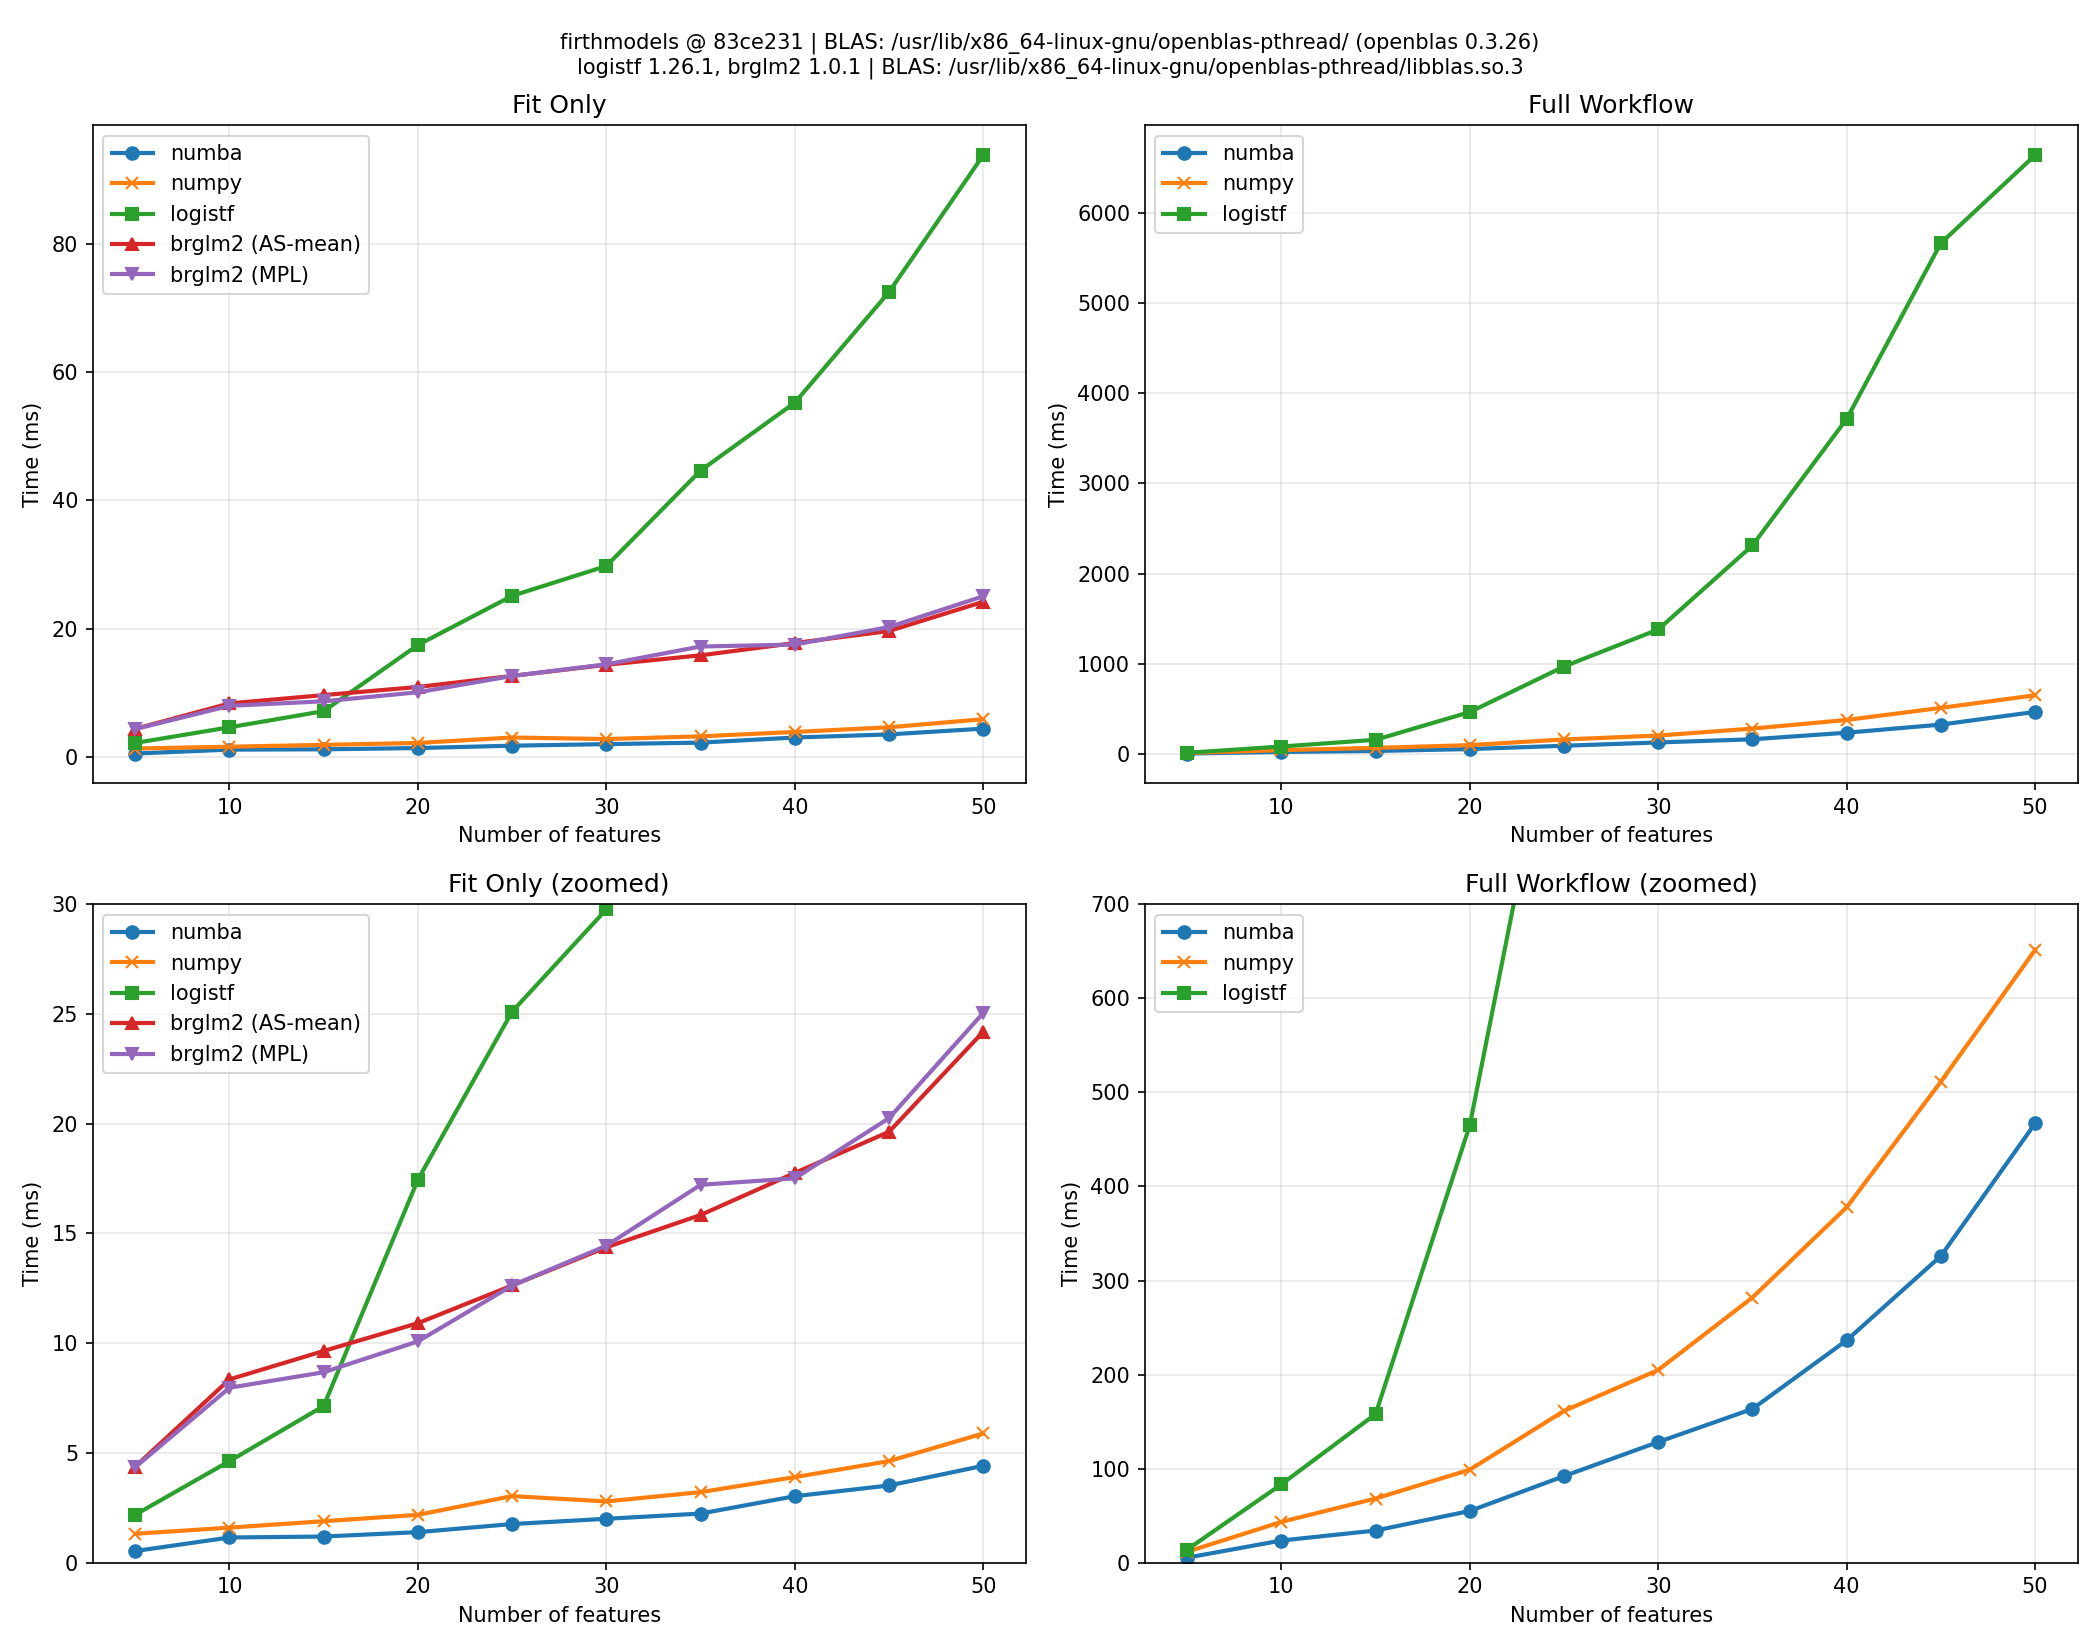
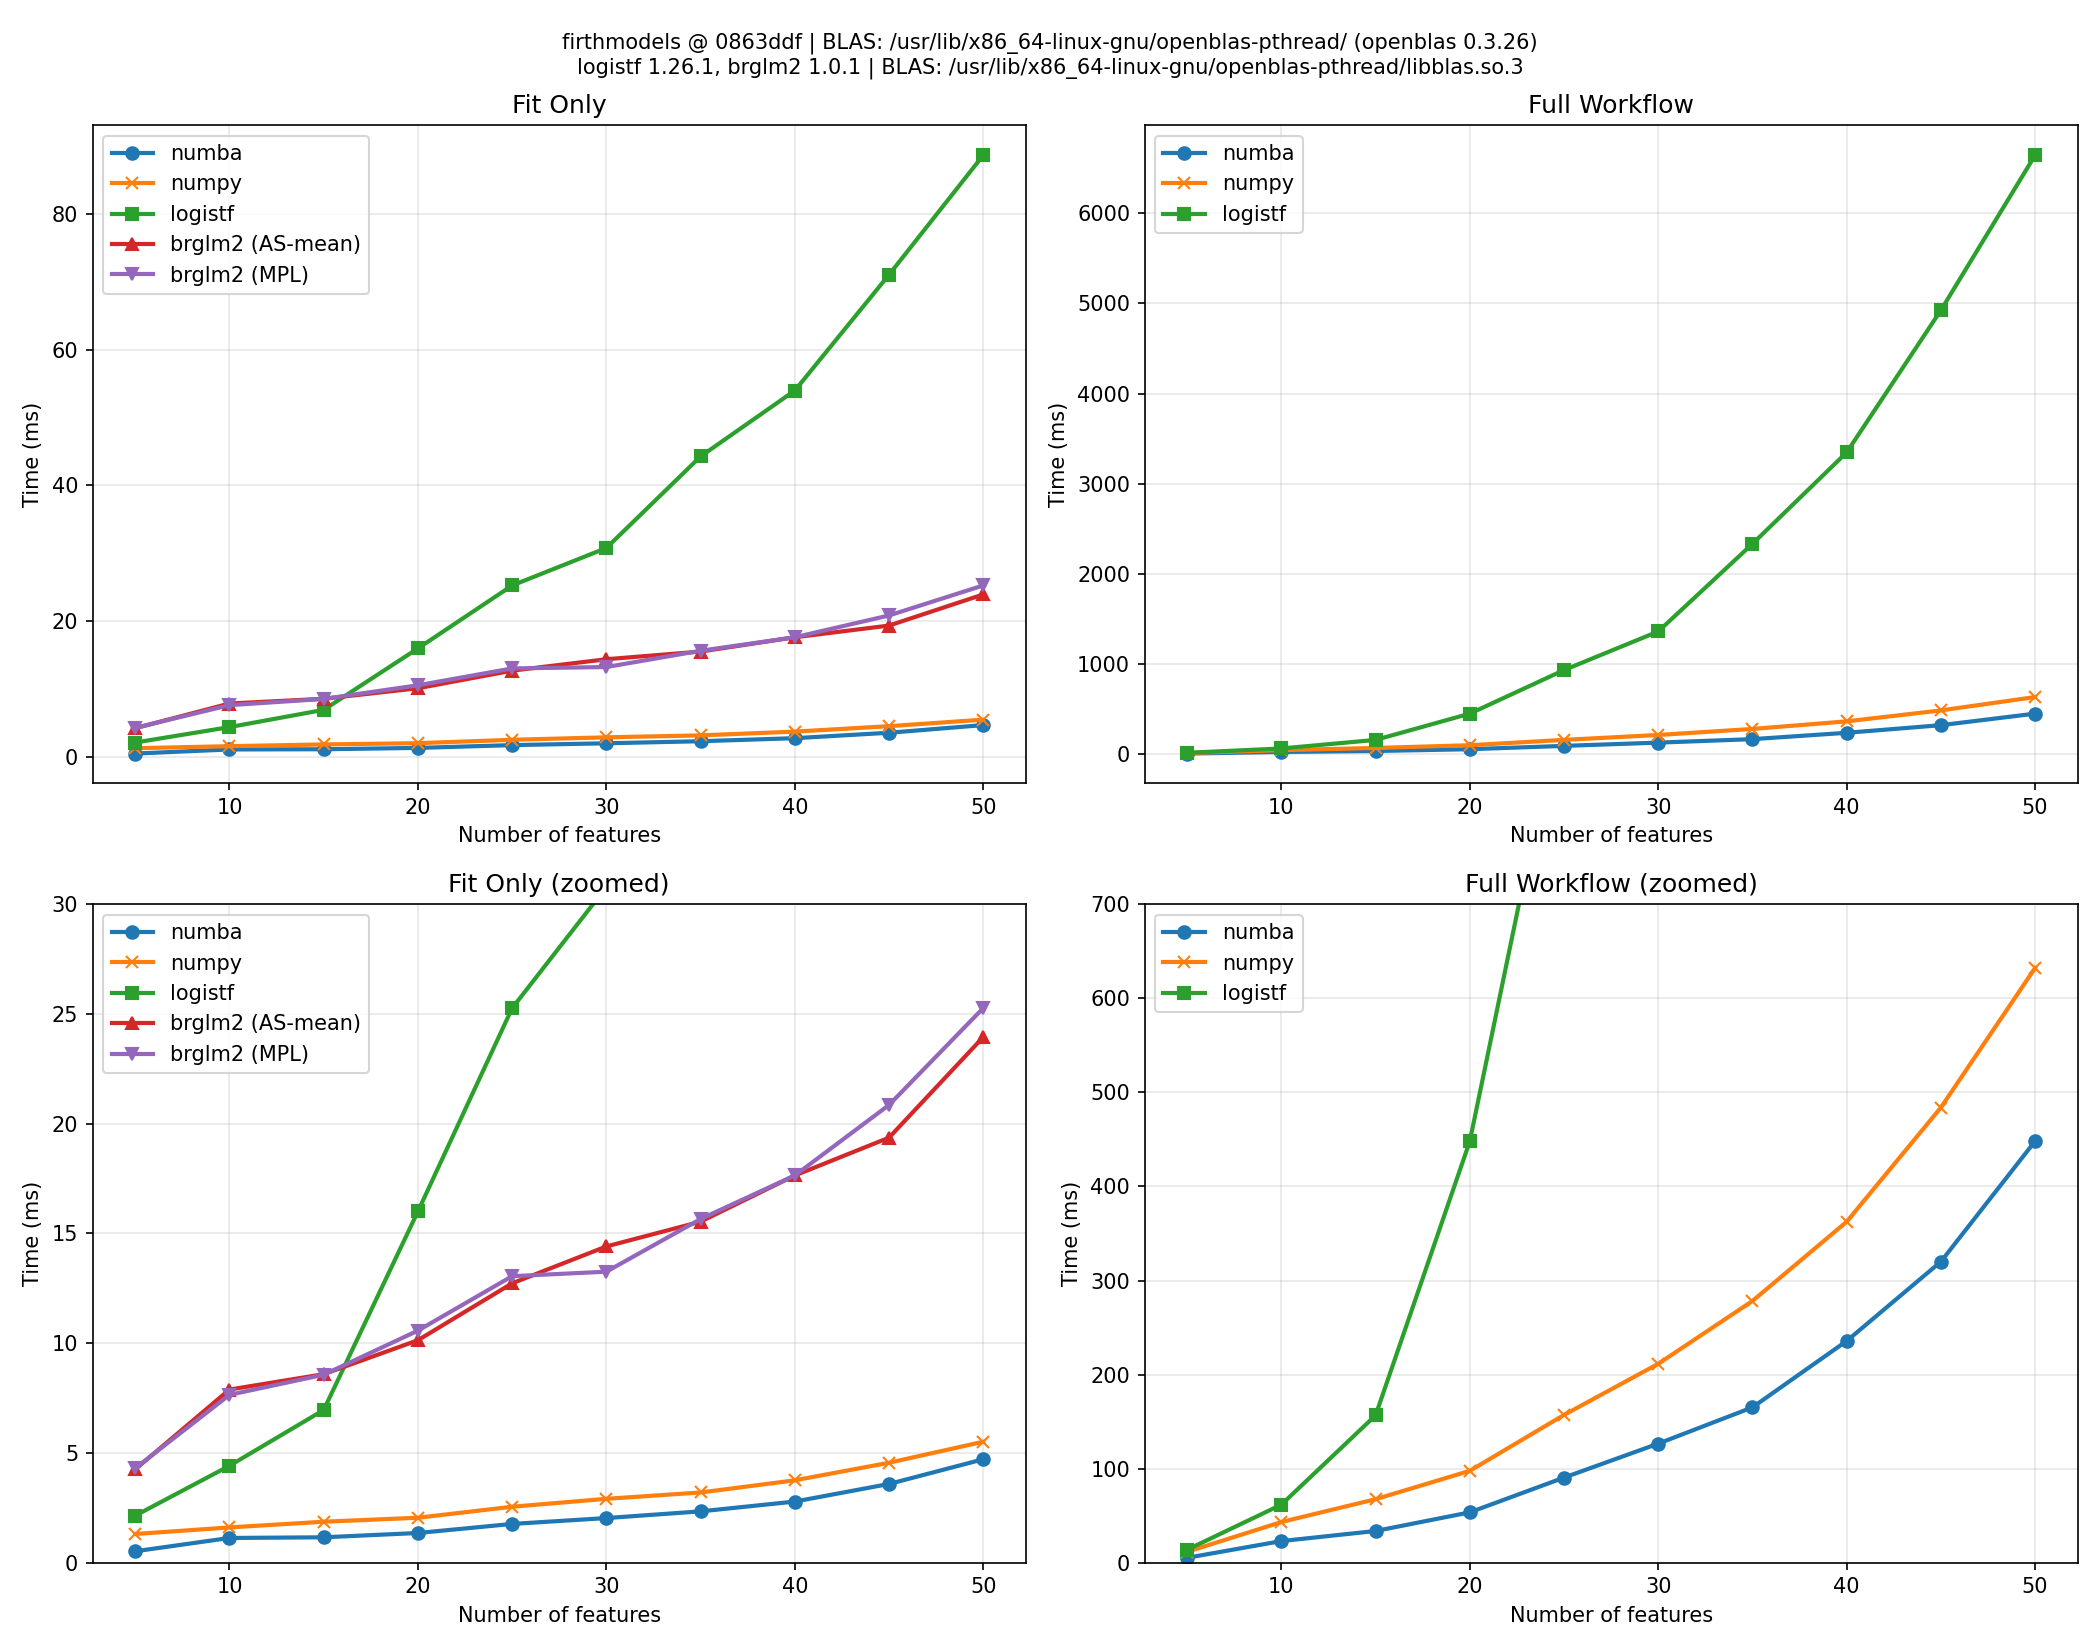
benchmark: tighten up language

diff --git a/benchmarks/benchmark_logistic.py b/benchmarks/benchmark_logistic.py
@@ -1081,13 +1081,13 @@ packages for Firth-penalized logistic regression.
 
 ## Libraries Compared
 
-| Library | Language | Version | BLAS |
-|---------|----------|---------|------|
-| **firthmodels (numba)** | Python | {firthmodels_ver} | {numpy_blas} |
-| **firthmodels (numpy)** | Python | {firthmodels_ver} | {numpy_blas} |
-| **brglm2 (AS-mean)** | R | {brglm2_ver} | {r_blas} |
-| **brglm2 (MPL_Jeffreys)** | R | {brglm2_ver} | {r_blas} |
-| **logistf** | R | {logistf_ver} | {r_blas} |
+| Library | Version | BLAS |
+|---------|---------|------|
+| **firthmodels (numba)** | {firthmodels_ver} | {numpy_blas} |
+| **firthmodels (numpy)** | {firthmodels_ver} | {numpy_blas} |
+| **brglm2 (AS-mean)** | {brglm2_ver} | {r_blas} |
+| **brglm2 (MPL_Jeffreys)** | {brglm2_ver} | {r_blas} |
+| **logistf** | {logistf_ver} | {r_blas} |
 
 ## Benchmark Configuration
 
@@ -1102,7 +1102,7 @@ packages for Firth-penalized logistic regression.
 
 brglm2 runs with `check_aliasing=FALSE` since the benchmark data is guaranteed full rank.
 
-All implementations produce numerically equivalent results (verified with tolerances: coefficients {COEF_TOL}, CIs {CI_TOL}, p-values {PVAL_TOL}).
+All implementations agree within chosen tolerance (coefficients {COEF_TOL}, CIs {CI_TOL}, p-values {PVAL_TOL}). Python results are verified against both R packages.
 
 ## Results
 

diff --git a/benchmarks/logistic_report.md b/benchmarks/logistic_report.md
@@ -14,13 +14,13 @@ packages for Firth-penalized logistic regression.
 
 ## Libraries Compared
 
-| Library | Language | Version | BLAS |
-|---------|----------|---------|------|
-| **firthmodels (numba)** | Python | @ commit 83ce231 | /usr/lib/x86_64-linux-gnu/openblas-pthread/ (openblas 0.3.26) |
-| **firthmodels (numpy)** | Python | @ commit 83ce231 | /usr/lib/x86_64-linux-gnu/openblas-pthread/ (openblas 0.3.26) |
-| **brglm2 (AS-mean)** | R | 1.0.1 | /usr/lib/x86_64-linux-gnu/openblas-pthread/libblas.so.3 |
-| **brglm2 (MPL_Jeffreys)** | R | 1.0.1 | /usr/lib/x86_64-linux-gnu/openblas-pthread/libblas.so.3 |
-| **logistf** | R | 1.26.1 | /usr/lib/x86_64-linux-gnu/openblas-pthread/libblas.so.3 |
+| Library | Version | BLAS |
+|---------|---------|------|
+| **firthmodels (numba)** | @ commit 0863ddf | /usr/lib/x86_64-linux-gnu/openblas-pthread/ (openblas 0.3.26) |
+| **firthmodels (numpy)** | @ commit 0863ddf | /usr/lib/x86_64-linux-gnu/openblas-pthread/ (openblas 0.3.26) |
+| **brglm2 (AS-mean)** | 1.0.1 | /usr/lib/x86_64-linux-gnu/openblas-pthread/libblas.so.3 |
+| **brglm2 (MPL_Jeffreys)** | 1.0.1 | /usr/lib/x86_64-linux-gnu/openblas-pthread/libblas.so.3 |
+| **logistf** | 1.26.1 | /usr/lib/x86_64-linux-gnu/openblas-pthread/libblas.so.3 |
 
 ## Benchmark Configuration
 
@@ -35,7 +35,7 @@ packages for Firth-penalized logistic regression.
 
 brglm2 runs with `check_aliasing=FALSE` since the benchmark data is guaranteed full rank.
 
-All implementations produce numerically equivalent results (verified with tolerances: coefficients 1e-06, CIs 1e-06, p-values 1e-06).
+All implementations agree within chosen tolerance (coefficients 1e-06, CIs 1e-06, p-values 1e-06). Python results are verified against both R packages.
 
 ## Results
 
@@ -47,16 +47,16 @@ Time to fit the model and perform Wald inference. Values are minimum time across
 
 | k | numba | numpy | brglm2<br>(AS-mean) | brglm2<br>(MPL_Jeffreys) | logistf |
 |--:|------:|------:|------------:|-------------:|--------:|
-|   5 | 0.5 | 1.3 | 4.4 | 4.4 | 2.2 |
-|  10 | 1.1 | 1.6 | 8.4 | 8.0 | 4.6 |
-|  15 | 1.2 | 1.9 | 9.6 | 8.7 | 7.1 |
-|  20 | 1.4 | 2.2 | 10.9 | 10.1 | 17.5 |
-|  25 | 1.8 | 3.0 | 12.6 | 12.6 | 25.1 |
-|  30 | 2.0 | 2.8 | 14.4 | 14.4 | 29.8 |
-|  35 | 2.2 | 3.2 | 15.8 | 17.2 | 44.7 |
-|  40 | 3.0 | 3.9 | 17.8 | 17.5 | 55.2 |
-|  45 | 3.5 | 4.6 | 19.6 | 20.3 | 72.5 |
-|  50 | 4.4 | 5.9 | 24.2 | 25.1 | 93.8 |
+|   5 | 0.5 | 1.3 | 4.3 | 4.3 | 2.1 |
+|  10 | 1.1 | 1.6 | 7.9 | 7.6 | 4.4 |
+|  15 | 1.2 | 1.9 | 8.6 | 8.6 | 7.0 |
+|  20 | 1.3 | 2.0 | 10.1 | 10.6 | 16.0 |
+|  25 | 1.8 | 2.5 | 12.7 | 13.1 | 25.3 |
+|  30 | 2.0 | 2.9 | 14.4 | 13.3 | 30.8 |
+|  35 | 2.3 | 3.2 | 15.5 | 15.7 | 44.3 |
+|  40 | 2.8 | 3.7 | 17.6 | 17.6 | 54.0 |
+|  45 | 3.6 | 4.6 | 19.4 | 20.9 | 71.0 |
+|  50 | 4.7 | 5.5 | 24.0 | 25.3 | 88.6 |
 
 ### Full Workflow (Fit + LRT + Profile CI)
 
@@ -64,16 +64,16 @@ Time to fit the model, compute penalized likelihood ratio test p-values for all 
 
 | k | numba | numpy | logistf |
 |--:|------:|------:|--------:|
-|   5 | 5.2 | 11.5 | 13.8 |
-|  10 | 23.4 | 43.3 | 83.2 |
-|  15 | 34.1 | 68.1 | 157.9 |
-|  20 | 54.9 | 98.8 | 465.1 |
-|  25 | 91.9 | 161.3 | 969.8 |
-|  30 | 128.2 | 204.8 | 1380.1 |
-|  35 | 163.4 | 281.9 | 2311.6 |
-|  40 | 236.4 | 377.9 | 3712.8 |
-|  45 | 326.1 | 511.5 | 5661.9 |
-|  50 | 467.0 | 651.5 | 6635.7 |
+|   5 | 5.1 | 11.4 | 13.7 |
+|  10 | 22.9 | 43.1 | 61.6 |
+|  15 | 33.6 | 67.4 | 156.6 |
+|  20 | 53.4 | 97.6 | 448.1 |
+|  25 | 90.4 | 157.1 | 931.4 |
+|  30 | 126.5 | 211.4 | 1359.9 |
+|  35 | 165.1 | 278.2 | 2332.4 |
+|  40 | 235.7 | 362.5 | 3346.8 |
+|  45 | 320.1 | 484.0 | 4924.2 |
+|  50 | 448.2 | 632.4 | 6644.8 |
 
 
 ---
